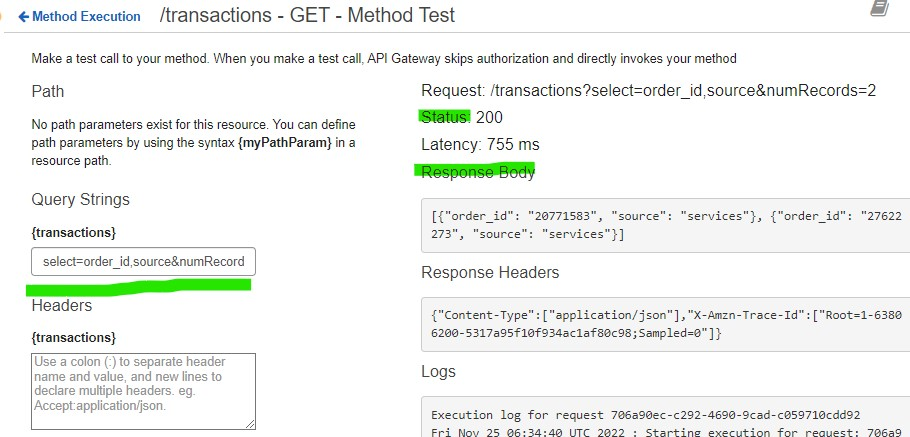
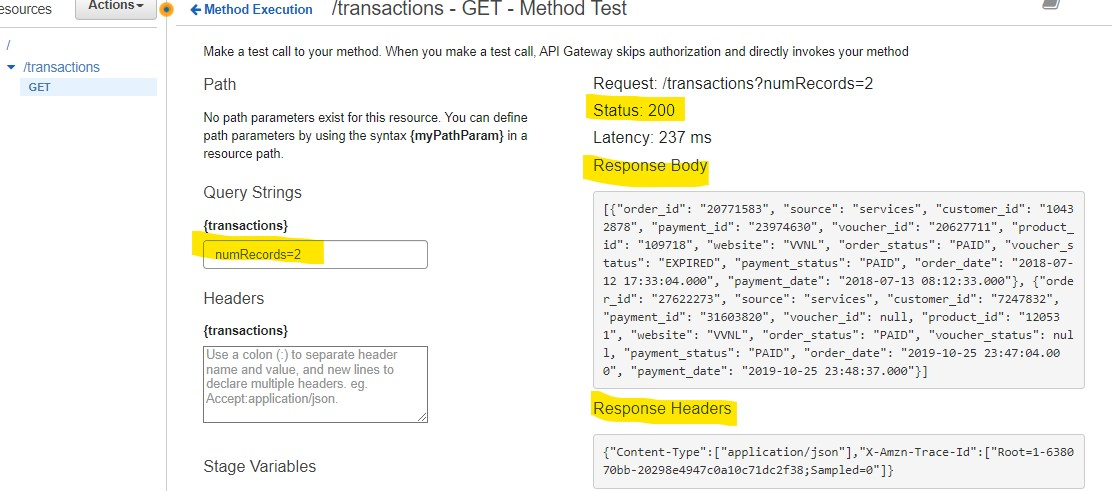
Assessment - commit API lambda and Images

diff --git a/scripts/lambda/emesa_getrecords_api_lambda.py b/scripts/lambda/emesa_getrecords_api_lambda.py
@@ -51,9 +51,7 @@ def get_rds_conn(user_name, password, host_name, port):
 def lambda_handler(event, context):
     # Get number of records
     record_count = int(event['queryStringParameters']['numRecords'])
-    select_cols = event['queryStringParameters']['select']
-    logger.info(f"The record count provided in input is {record_count}")
-    logger.info(f"The select columns provided in input are: {select_cols}")
+    logger.info(f"The record count input given is {record_count}")
     
     # Get RDS credentials from secret
     SECRET = get_secret()
@@ -66,11 +64,8 @@ def lambda_handler(event, context):
     # Get Rds connection and execute the cursor to fetch records from fact_transact table according to records size
     conn = get_rds_conn(RDS_USER, RDS_PASSWORD, RDS_HOST, RDS_PORT)
     cur = conn.cursor()
-    if record_count > 0 and len(select_cols) > 0:
-        logger.info(f"The Query is: select {select_cols} from myproject.fact_transact limit {record_count}")
-        cur.execute(f"select {select_cols} from myproject.fact_transact limit {record_count}")
-    elif record_count <= 0 and len(select_cols) > 0:
-        cur.execute(f"select {select_cols} from myproject.fact_transact")
+    if record_count > 0:
+        cur.execute(f"select * from myproject.fact_transact limit {record_count}")
     else:
         cur.execute(f"select * from myproject.fact_transact")
     records = cur.fetchall()
@@ -87,7 +82,7 @@ def lambda_handler(event, context):
     for rec in records:
         record_dict = {}
         for i in range(len(schema_tuple)-1):
-            for j in range(len(rec)):
+            for j in range(len(rec)-1):
                 if i == j:
                     record_dict[schema_tuple[i][0]] = rec[j]
         output_list.append(record_dict)
